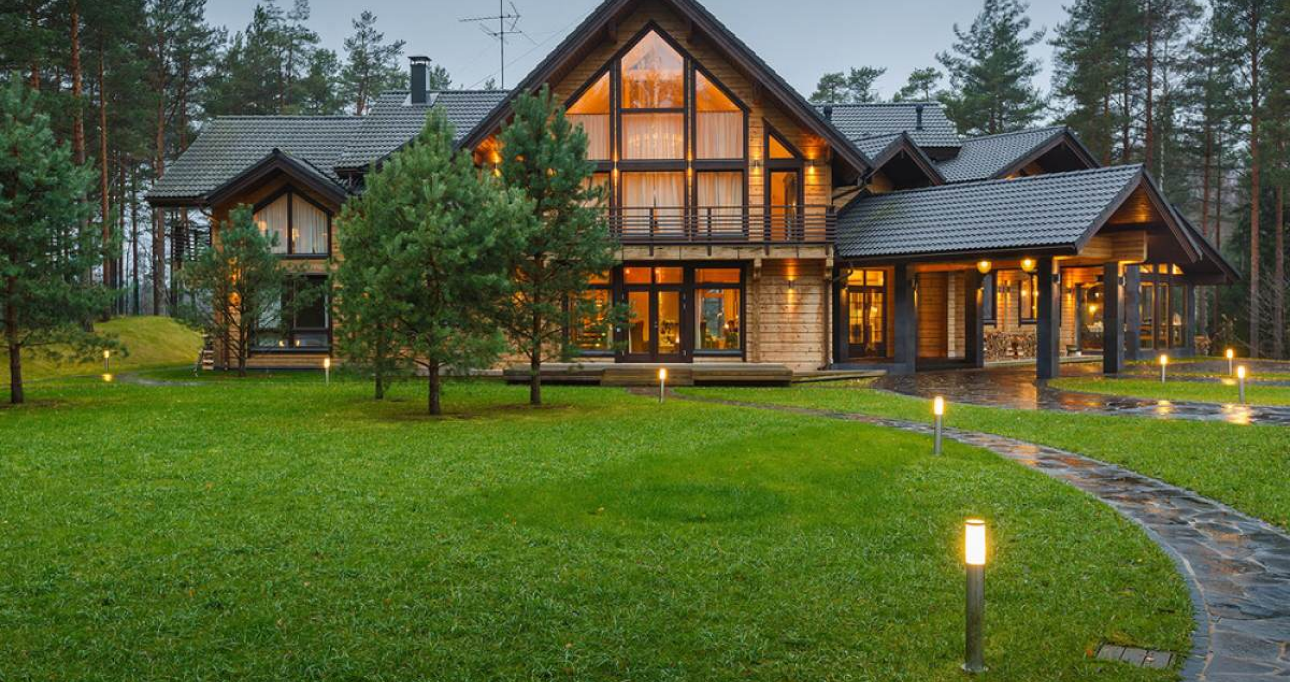
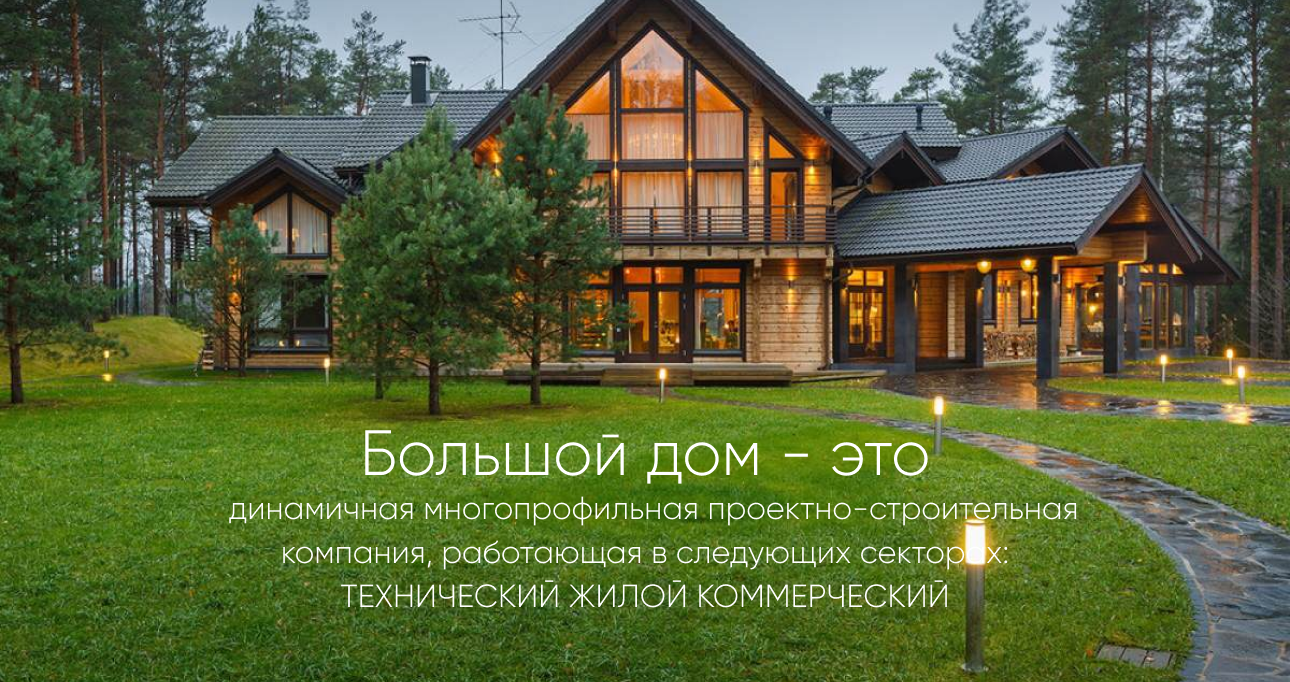
0.1.0

diff --git a/index.html b/index.html
@@ -8,54 +8,56 @@
 </head>
 <body>
     <header>
-        <a></a>
-        <img>
-        <h3></h3>
+        <a href="#contact"><h2>ОБРАТНАЯ СВЯЗЬ</h2></a>
+        <img src="./img/logo.svg">
+        <h2>info@bighouse.ru</h2>
     </header>
-    <section>
-        <div>
-            <h2></h2>
-            <p></p>
+    <div class="wrapper">
+        <div class="poster">
+            <img src="./img/poster1.png"/>
         </div>
-    </section>
-    <form>
-        <input></input>
-        <button></button>
-    </form>
-    <img>
-    <section>
-        <h1></h1>
-        <p></p>
-        <div>
-            <h2></h2>
+        <form class="form__short">
+            <input placeholder="Ваш номер телефона для связи"/>
+            <button>ОСТАВИТЬ ЗАЯВКУ</button>
+        </form>
+        <img class="mockup" src="./img/mockup.png">
+        <section class="about">
+            <h1>О НАС</h1>
+            <p>Большой дом стремится выполнять высококачественные, экономичные и своевременные проекты, которые постоянно превышают стандарты и гарантируют исключительную удовлетворенность клиентов.</p><br> <p>Мы стремимся обеспечить отличное качество и инновационные строительные решения. Наш совместный подход является ключом к нашему успеху, и наши проекты демонстрируют навыки и талант нашей команды во всех сферах нашей деятельности.</p>
+        </section>
+        <div class="poster">
+            <img src="./img/poster2.png"/>
         </div>
-    </section>
-    <section>
-        <h1></h1>
-        <p></p>
-    </section>
-    <form>
-        <h1></h1>
-        <input>
-        <input>
-        <input>
-        <button></button>
-    </form>
+        <section class="about">
+            <h1>КАРЬЕРА</h1>
+            <p>Большой дом создает среду, которая поощряет совместный подход в сочетании с профессиональным ростом.</p><br> <p>У нас работают талантливые и целеустремленные, те, кто может доказать, что они работают по собственной инициативе в прогрессивной и сложной среде, и те, у кого есть необходимые навыки и опыт, чтобы использовать успех нашей процветающей компании.</p><br> <p>Мы признаем, что наши сотрудники являются нашим самым большим достоянием, и наша цель — предоставить им наилучшие возможности для роста и развития вместе с компанией, чтобы они могли реализовать свой потенциал.</p><br> Мы хотим привлечь самых талантливых и увлеченных людей присоединиться к нашему бизнесу. Большой дом стремится к равной оплате труда и обеспечению полноценной и обогащающей карьеры для наших сотрудников независимо от пола, религии, сексуальной ориентации, инвалидности или любых других защищенных характеристик.;</p>
+        </section>
+        <form class="form__full">
+            <h1>ВАША ОБРАТНАЯ СВЯЗЬ</h1>
+            <input placeholder="Ваше имя и фамилия"/>
+            <input placeholder="Ваш номер телефона"/>
+            <input placeholder="Ваш email"/>
+            <button>ОТПРАВИТЬ</button>
+        </form>
 
-    <section>
-        <h1></h1>
-        <div>
-            <div></div>
-            <div></div>
-        </div>
-    </section>
+        <section class="contact" id="contact">
+            <h1>КОНТАКТЫ</h1>
+            <div class="contacts">
+                <div class="address">
+                    <p>info@bighouse.ru,<br> +78121112233</p>
+                    <p>Юридический адрес:<br> Россия, 191186,<br> Санкт-Петербург, ул. Большая Морская, 18</p>
+                </div>
+                <img src="./img/map.png">
+            </div>
+        </section>
+    </div>
     <footer>
-        <h3></h3>
+        <h3 class="h3__footer__left">Большой дом - это проектно-строительная компания, работающая в следующих секторах: технический жилой коммерческий</h3>
         <div>
-            <p></p>
-            <h3></h3>
+            <img src="./img/logo.svg">
+            <p>info@bighouse.ru, +78121112233, <br>Юридический адрес: Россия, 191186, Санкт-Петербург, ул. Большая Морская, 18</p>
         </div>
-        <img>
+        <h3 class="h3__footer__right">Мы выполним весь комплекс работ под ключ -от фундамента до внутренней отделки помещений</h3>
     </footer>
 </body>
 <script src="script.js"></script>

diff --git a/styles.css b/styles.css
@@ -14,7 +14,6 @@ menu, nav, output, ruby, section, summary,
 time, mark, audio, video {
 	margin: 0;
 	padding: 0;
-	border: 0;
 	font-size: 100%;
 	font: inherit;
 	vertical-align: baseline;
@@ -55,17 +54,170 @@ table {
     font-weight: 300;
 }
 html{
+	font-family: Gilory;
     font-size: 24px;
+	scroll-behavior: smooth;
+}
+*{
+	border: 1px solid black;
+}
+h1{
+	font-weight: bold;
+	font-size: 2rem;
+}
+h2{
+	font-weight: bold;
+	font-size: 1rem;
+}
+h3{
+	font-weight: bold;
+	font-size: 0.7rem;
+}
+a{
+	text-decoration: none;
+	color: var(--white);
+}
+p{
+	font-weight: 300;
 }
 
 /*цвета*/
 :root {
+	--white:#FFF9F9;
     --bg-color: #DFF2E3;
-    --button-color: #047218;
-    --gradient-header: linear-gradient(180deg, rgba(4, 114, 24, 0.57) 0%, rgba(115, 255, 145, 0.57) 93.02%);
-    --gradient-footer: linear-gradient(180deg, rgba(115, 255, 145, 0.57) 0%, rgba(4, 114, 24, 0.57) 100%);
+    --button-color: #047218;}
+body{
+	background-color: var(--bg-color);
+	min-width: 768px;
+}
+.wrapper{
+	display: flex;
+	flex-direction: column;
+	gap: 2rem;
+	max-width: 1080px;
+	margin: 0 auto;
+	padding: 0 1rem;
 }
 
 /*хедр*/
+header{
+	padding: 0 1rem;
+	display: flex;
+	justify-content: space-between;
+	align-items: center;
+	font-weight: bold;
+	color: var(--white);
+	background: rgb(4,114,24);
+	background: linear-gradient(180deg, rgba(4,114,24,1) 0%, rgba(223,242,227,1) 100%);
+}
 /*мейн*/
+.poster{
+	display: flex;
+	justify-content: center;
+	width: 100%;
+}
+.poster img{
+	width: 80%;
+	border-radius: 1rem;
+}
+.form__short{
+	display: flex;
+	justify-content: space-between;
+	width: 100%;
+	gap: 2rem;
+}
+.form__short input{
+	width: 100%;
+	border: 1px solid black;
+	border-radius: 0.25rem;
+	padding: 0.5rem 1rem;
+}
+.form__short button{
+	color: var(--white);
+	background-color: var(--button-color);
+	border: 1px solid black;
+	border-radius: 0.25rem;
+	text-wrap:nowrap;
+	padding: 0.5rem 1rem;
+	font-weight: bold;
+}
+.mockup{
+	width: 50%;
+	margin: 0 auto;
+}
+.about{
+	display: flex;
+	flex-direction: column;
+	gap: 0.5rem;
+}
+.about h1{
+	margin: 0 auto;
+}
+.form__full{
+	display: flex;
+	flex-direction: column;
+	align-items: center;
+	gap: 1rem;
+}
+.form__full input{
+	width: 50%;
+	border: 1px solid black;
+	border-radius: 0.25rem;
+	padding: 0.5rem 1rem;
+}
+.form__full button{
+	width: 56%;
+	color: var(--white);
+	background-color: var(--button-color);
+	border: 1px solid black;
+	border-radius: 0.25rem;
+	text-wrap:nowrap;
+	padding: 0.5rem 1rem;
+	font-weight: bold;
+}
+.contacts{
+	display: flex;
+	justify-content: center;
+	align-items: center;
+	gap: 2rem;
+}
+.contacts img{
+	width: 60%;
+	border-radius: 1rem;
+}
+.address{
+	display: flex;
+	flex-direction: column;
+	gap: 0.5rem;
+}
 /*футер*/
+footer{
+	padding: 1rem;
+	margin-top: 1rem;
+	display: flex;
+	justify-content: space-between;
+	align-items: center;
+	font-weight: bold;
+	color: var(--white);
+	background: rgb(4,114,24);
+	background: linear-gradient(0deg, rgba(4,114,24,1) 0%, rgba(223,242,227,1) 100%);
+}
+footer p{
+	text-align: center;
+}
+.h3__footer__left{
+	width: 200px;
+}
+.h3__footer__right{
+	width: 200px;
+	text-align: right;
+}
+@media (max-width:768px) {
+	html{
+		font-size: 18px;
+	}
+	footer img{
+		scale: 0.8;
+	}
+	
+}
